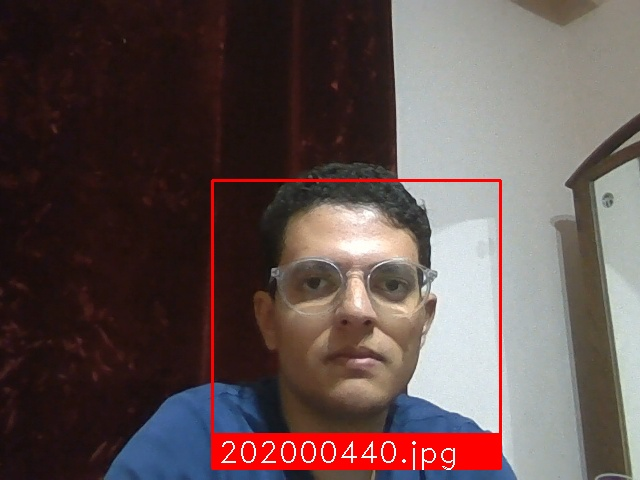
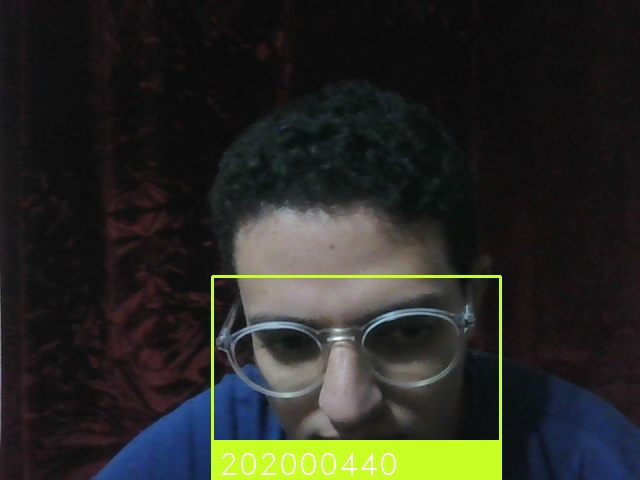
edit

diff --git a/start_session.py b/start_session.py
@@ -90,6 +90,7 @@ def start_session(groupPath):
 
     while True:
         # Grab a single frame of video
+
         _, frame = cap.read()
         # picam2.start_and_capture_file(os.path.join(logPath, "log.jpg"))
         cv2.imwrite(os.path.join(logPath, "log.jpg"), frame)
@@ -102,11 +103,10 @@ def start_session(groupPath):
         small_frame = cv2.resize(frame, (0, 0), fx=0.25, fy=0.25)
 
         # Find all the faces and face encodings in the current frame of video
-        face_locations = face_recognition.face_locations(small_frame, number_of_times_to_upsample = 0)
-
+        face_locations = face_recognition.face_locations(small_frame, number_of_times_to_upsample = 0) 
         face_encodings = face_recognition.face_encodings(small_frame, face_locations) # N num of stdents per image
 
-        idList = []
+
         for face_encoding in face_encodings:
             id = 'unkown'
             # See if the face is a match for the known face(s)
@@ -118,46 +118,37 @@ def start_session(groupPath):
             if matches[best_match_index]:
                 id = knownIDs[best_match_index]
 
-            idList.append(id)
-            print("idList")
-            print(idList)
-            for id in idList: # FIXME check for len(), if always equals one remove loop
-                if(id[:-4] not in already_attendence_taken and id != 'unkown'):
-                    
-                    worksheet.cell(row, col, int(id[:-4]))
-                    col = col+1
-                    current_datetime = datetime.now()
-                    worksheet.cell(row, col, str(current_datetime.strftime("%A, %B %d, %Y %I:%M %p")))
-                    row = row+1
-                    col = 1
-                    workbook.save('attendence_excel.xlsx')
-                    print(id[:-4]) # Show id for user
-                    printLCD(id[:-4], col = 0, row = 0)
-                    green_led()
-                    already_attendence_taken.append(id[:-4])
-                    # Display the results
-                    
-                    for (top, right, bottom, left), id in zip(face_locations, idList):
-                        # Scale back up face locations since the frame we detected in was scaled to 1/4 size
-                        top *= 4
-                        right *= 4
-                        bottom *= 4
-                        left *= 4
+            if(id[:-4] not in already_attendence_taken and id != 'unkown'):
+                
+                worksheet.cell(row, col, int(id[:-4]))
+                col = col+1
+                current_datetime = datetime.now()
+                worksheet.cell(row, col, str(current_datetime.strftime("%A, %B %d, %Y %I:%M %p")))
+                row = row+1
+                col = 1
+                workbook.save('attendence_excel.xlsx')
+                print(id[:-4])
+                printLCD(id[:-4], col = 0, row = 0)
+                green_led()
+                already_attendence_taken.append(id[:-4])
+                
+                # Display the results
+                for (top, right, bottom, left) in face_locations:
+                    # Scale back up face locations since the frame we detected in was scaled to 1/4 size
+                    top *= 4
+                    right *= 4
+                    bottom *= 4
+                    left *= 4
 
-                        cv2.rectangle(frame, (left, top), (right, bottom), (0, 0, 255), 2)
+                    cv2.rectangle(frame, (left, top), (right, bottom), (36, 255, 200), 2)
 
-                        cv2.rectangle(frame, (left, bottom - 35), (right, bottom), (0, 0, 255), cv2.FILLED)
-                        font = cv2.FONT_HERSHEY_DUPLEX
-                        frame = cv2.putText(frame, id, (left + 6, bottom - 6), font, 1.0, (255, 255, 255), 1)
-                        cv2.imwrite(os.path.join(runPath, f"{id[:-4]}.jpg"), frame)
-
+                    cv2.rectangle(frame, (left, bottom - 40), (right, bottom), (36, 255, 200), cv2.FILLED)
+                    font = cv2.FONT_HERSHEY_DUPLEX
+                    frame = cv2.putText(frame, id[:-4], (left + 6, bottom - 6), font, 1.0, (255, 255, 255), 1)
+                    cv2.imwrite(os.path.join(runPath, f"{id[:-4]}.jpg"), frame)
 
         if app.END_SECTION:
             cap.release()
             if app.REAL_OTP == app.unknow_OTP:
                 orange_led()
-                try:
-                    os.remove(os.path.join(logPath, "log.jpg"))
-                except:
-                    pass
                 exit()

diff --git a/app.py b/app.py
@@ -83,6 +83,9 @@ def endSession():
         sendEmail_End(DR_EMAIL, COURSE_CODE, FILE_PATH = f"attendence_{COURSE_CODE}_{START_TIME}.xlsx")
         print("done send end email")
         # zip for run folder + attendence.xlsx and send
+        # os.rmdir(os.path.join(os.path.join(os.getcwd(), "run")))
+
+        os.remove(os.path.join(os.path.join(os.getcwd(), "log"), "log.jpg"))
         os.remove(f"attendence_{COURSE_CODE}_{START_TIME}.xlsx")
         return thanks()
     return render_template('endSession.html')
